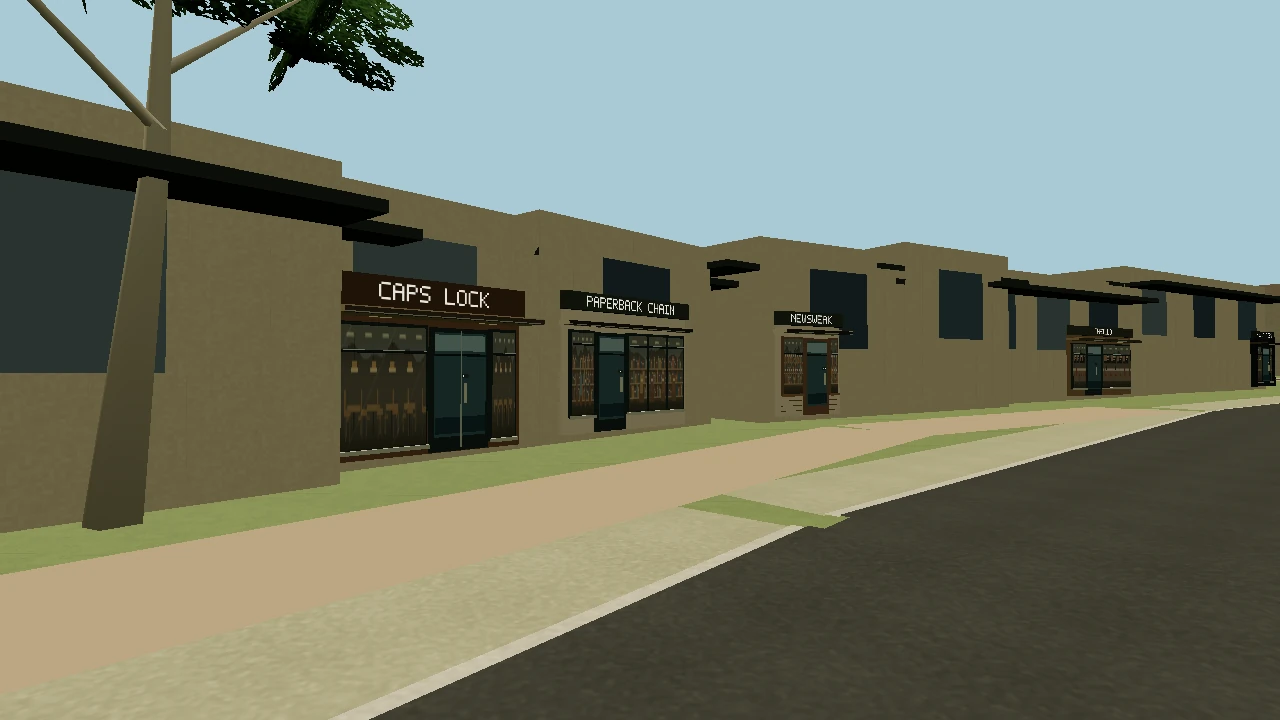
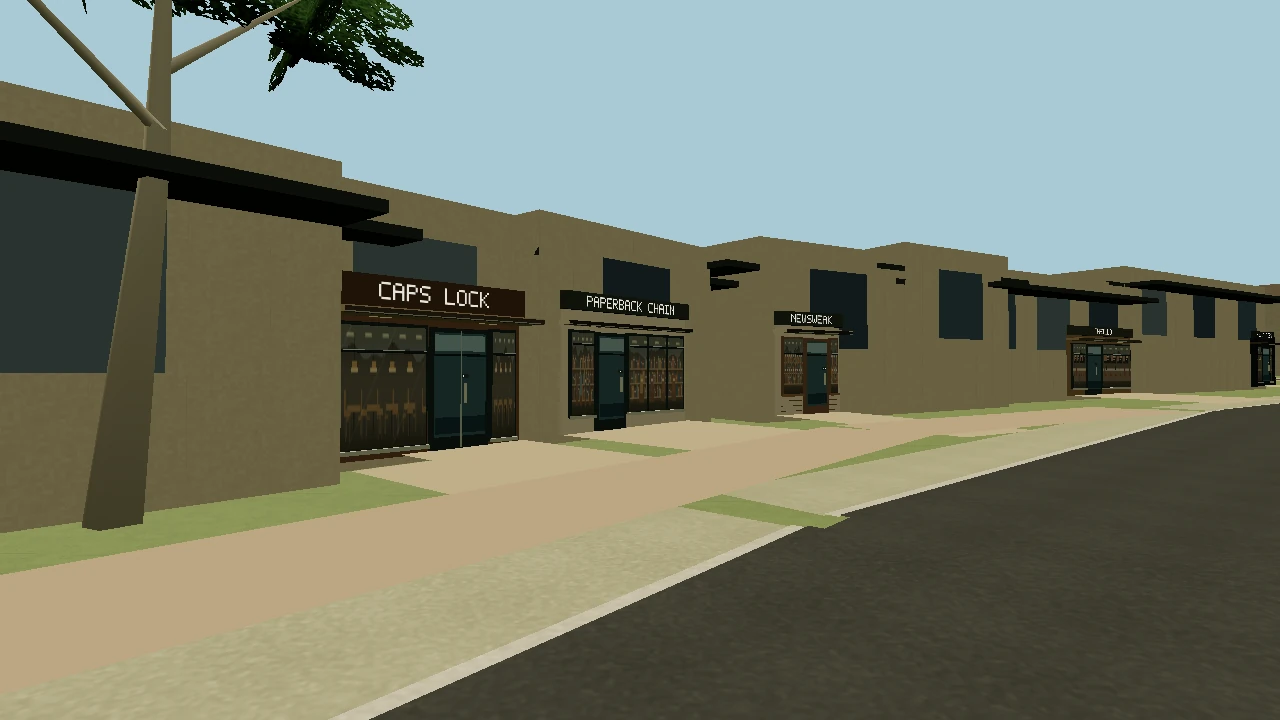
Refresh Manuka street-level capture with completed pavement

Changed region(s): [[0.2812, 0.55, 0.7188, 0.7028], [0.875, 0.5194, 0.9688, 0.5806], [0.75, 0.5806, 0.8125, 0.6111]]

diff --git a/docs/capital-drive-landmark-fidelity.md b/docs/capital-drive-landmark-fidelity.md
@@ -47,7 +47,7 @@ The former waterpark at Macquarie retains its four mapped pool outlines and six 
 
 ![Parliament House from its mapped public approach](capital-drive-previews/landmark-studies/parliament-street.webp)
 
-The geographic harness loads the shipped Inner South terrain and street data, applies production road profiles and building replacements, then runs the normal low-graphics world streamer, real building and shop views, foliage atlas, daylight lighting, parked-car generator and streetlight renderer. The two 1280 × 720 captures use fixed pedestrian-height cameras. A playable session adds its HUD, player, moving actors, missions and changing weather. The Parliament Drive photograph loaded 20 world chunks and submitted 135,420 triangles. The Franklin Street photograph loaded 17 and submitted 137,470 triangles. The harness also reports tree, building and road segment counts.
+The geographic harness loads the shipped Inner South terrain and street data, applies production road profiles and building replacements, then runs the normal low-graphics world streamer, real building and shop views, foliage atlas, daylight lighting, parked-car generator and streetlight renderer. The two 1280 × 720 captures use fixed pedestrian-height cameras. A playable session adds its HUD, player, moving actors, missions and changing weather. The Parliament Drive photograph loaded 20 world chunks and submitted 135,420 triangles. The Franklin Street photograph loaded 17 and submitted 137,744 triangles. The harness also reports tree, building and road segment counts.
 
 To reproduce both images, install Python Playwright and Pillow, point the command at a local Chromium executable and run it from the repository root. It serves the checked-out files on a loopback port.
 
